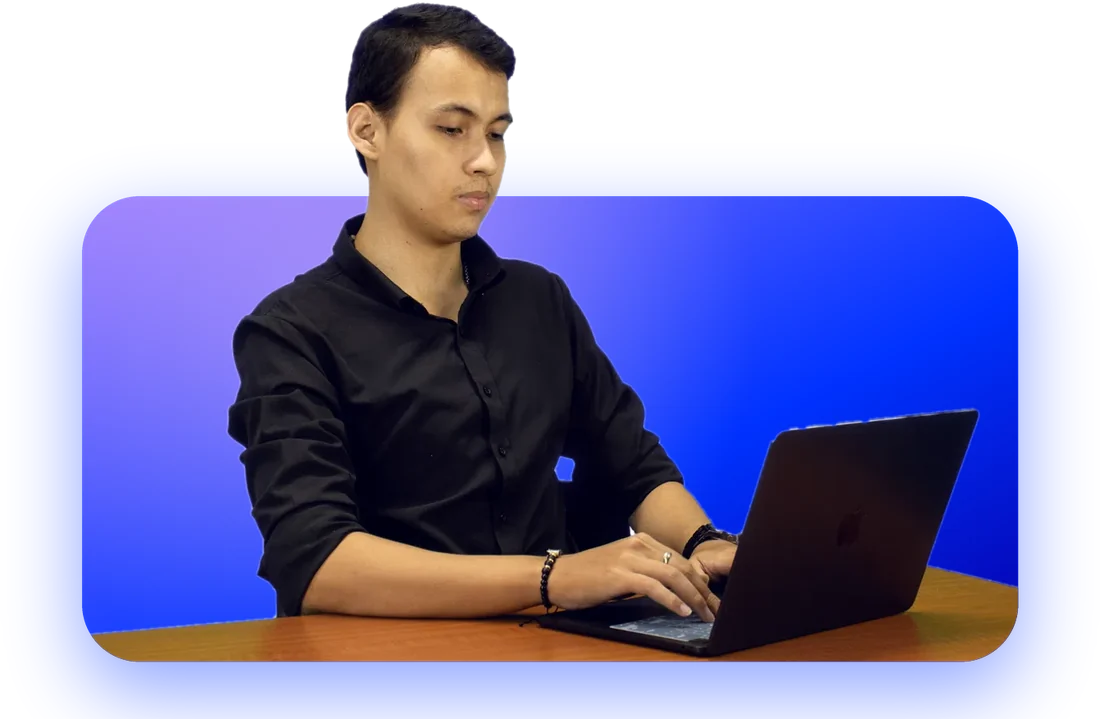
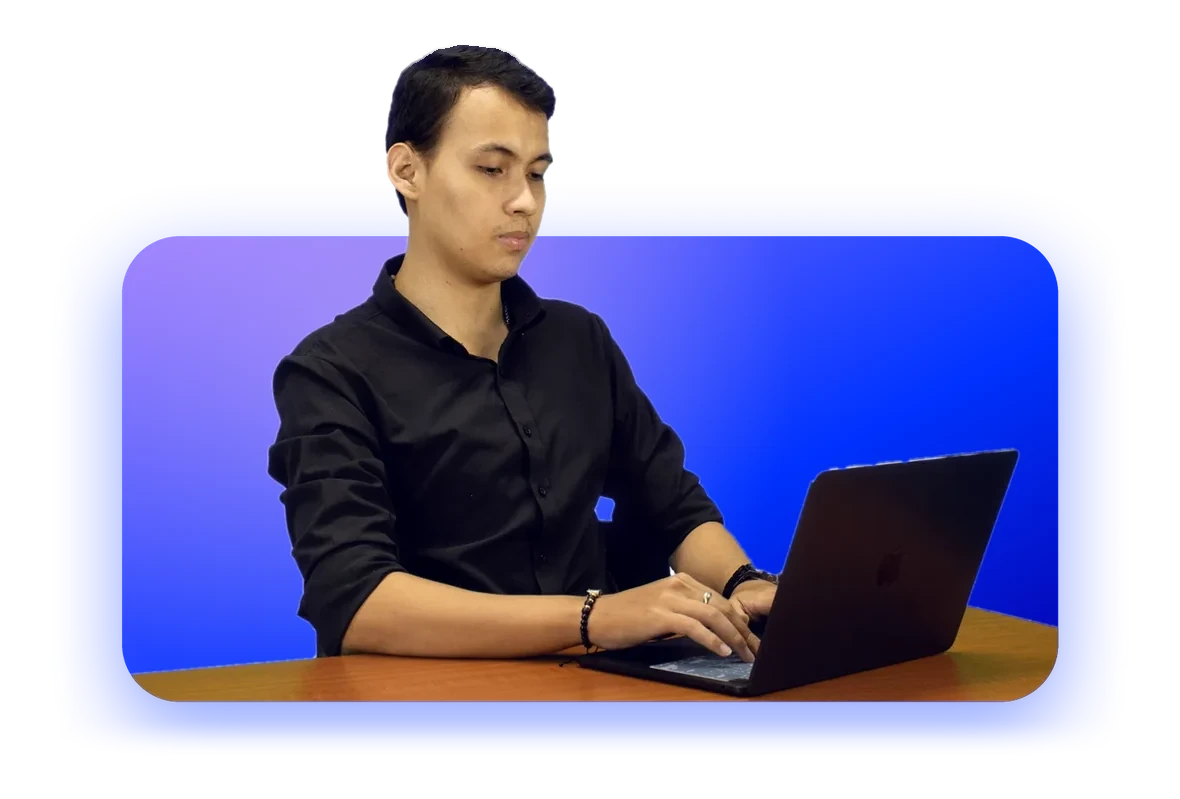
Fotos de la página: margen y desvanecido del halo para que no se corte; sin segundo halo borroso

diff --git a/index.html b/index.html
@@ -157,7 +157,7 @@
           <p class="lead">Que cada estudiante termine con un juego propio y con las bases para seguir creando por su cuenta.</p>
         </div>
         <figure class="cutout cutout--square cutout--baked">
-          <img src="assets/img/estudiante-trabajando.webp" alt="Estudiante de disce programando en su portátil" width="1100" height="719" loading="lazy">
+          <img src="assets/img/estudiante-trabajando.webp" alt="Estudiante de disce programando en su portátil" width="1180" height="799" loading="lazy">
         </figure>
       </div>
       <div class="cards-4">
@@ -219,7 +219,7 @@
           <a class="btn btn--dark" id="linkTiktok" href="#" target="_blank" rel="noopener" hidden>Seguir en TikTok</a>
         </div>
         <figure class="cutout cutout--circle cutout--baked">
-          <img src="assets/img/estudiantes-portatil.webp" alt="Dos estudiantes revisando un proyecto en un portátil" width="1200" height="700" loading="lazy">
+          <img src="assets/img/estudiantes-portatil.webp" alt="Dos estudiantes revisando un proyecto en un portátil" width="1280" height="780" loading="lazy">
         </figure>
       </div>
       <div class="free" id="freeClasses"></div>

diff --git a/css/styles.css b/css/styles.css
@@ -579,6 +579,7 @@ a.free-card:hover { transform: translateY(-4px); box-shadow: var(--glow-fuerte);
 /* El fondo (círculo o recuadro) viene dentro de la foto */
 .cutout--baked:has(img)::before { display: none; }
 .cutout--baked img { filter: none; -webkit-mask-image: none; mask-image: none; }
+.cutout--baked::after { display: none; } /* la foto ya trae su propio halo: el halo borroso extra quedaba desalineado y recortado */
 .profe__photo:has(img) { border: none; padding-top: 28px; background: radial-gradient(70% 60% at 30% 20%, rgba(255,204,242,.45), transparent 60%), linear-gradient(160deg, #977DFF 0%, #0033FF 60%, #0600AB 100%); }
 @media (max-width: 900px) { .hero__person:has(img) { max-width: 408px; } }
 
